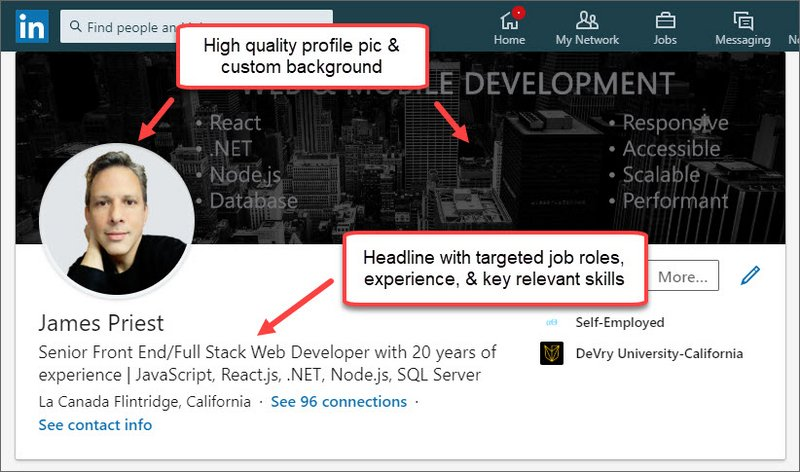
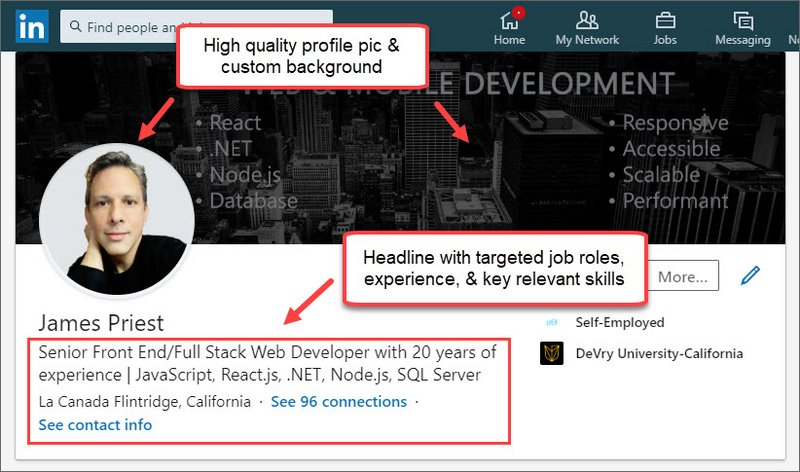
r5d99: LinkedIn Summary & Experience

Changed region(s): [[0.0312, 0.5932, 0.6562, 0.9492]]

diff --git a/docs/log5.md b/docs/log5.md
@@ -34,6 +34,35 @@ This is part of Alexander Kallaway's [100DaysOfCode](https://github.com/Kallaway
 
 ---
 
+## 99. LinkedIn Summary & Experience
+### Day 98: June 25, 2019 - Tuesday
+
+**Project:** Getting hired
+
+[![App](assets/images/r5d99b-small.jpg)](assets/images/r5d99b.jpg)<br>
+<span class="center bold">LinkedIn Summary</span>
+
+**Progress:** Continued updating profile.
+
+Next I used [How to Build an Amazing LinkedIn Profile - [15 proven tips]](https://www.freecodecamp.org/news/how-to-build-an-amazing-linkedin-profile-15-proven-tips/) as a guide to  update the following sections.
+
+- About
+- Experience
+- Education
+- Licenses & Certifications
+
+[![App](assets/images/r5d99c-small.jpg)](assets/images/r5d99c.jpg)<br>
+<span class="center bold">LinkedIn Experience</span>
+
+[![App](assets/images/r5d99d-small.jpg)](assets/images/r5d99d.jpg)<br>
+<span class="center bold">LinkedIn Certifications</span>
+
+**Links:**
+- [How to Build an Amazing LinkedIn Profile - [15 proven tips]](https://www.freecodecamp.org/news/how-to-build-an-amazing-linkedin-profile-15-proven-tips/) by Austin Belcak
+- [LinkedIn Profile - James Priest](https://www.linkedin.com/in/jamespriestdeveloper/)
+
+---
+
 ## 98. LinkedIn Profile Header
 ### Day 98: June 24, 2019 - Monday
 
